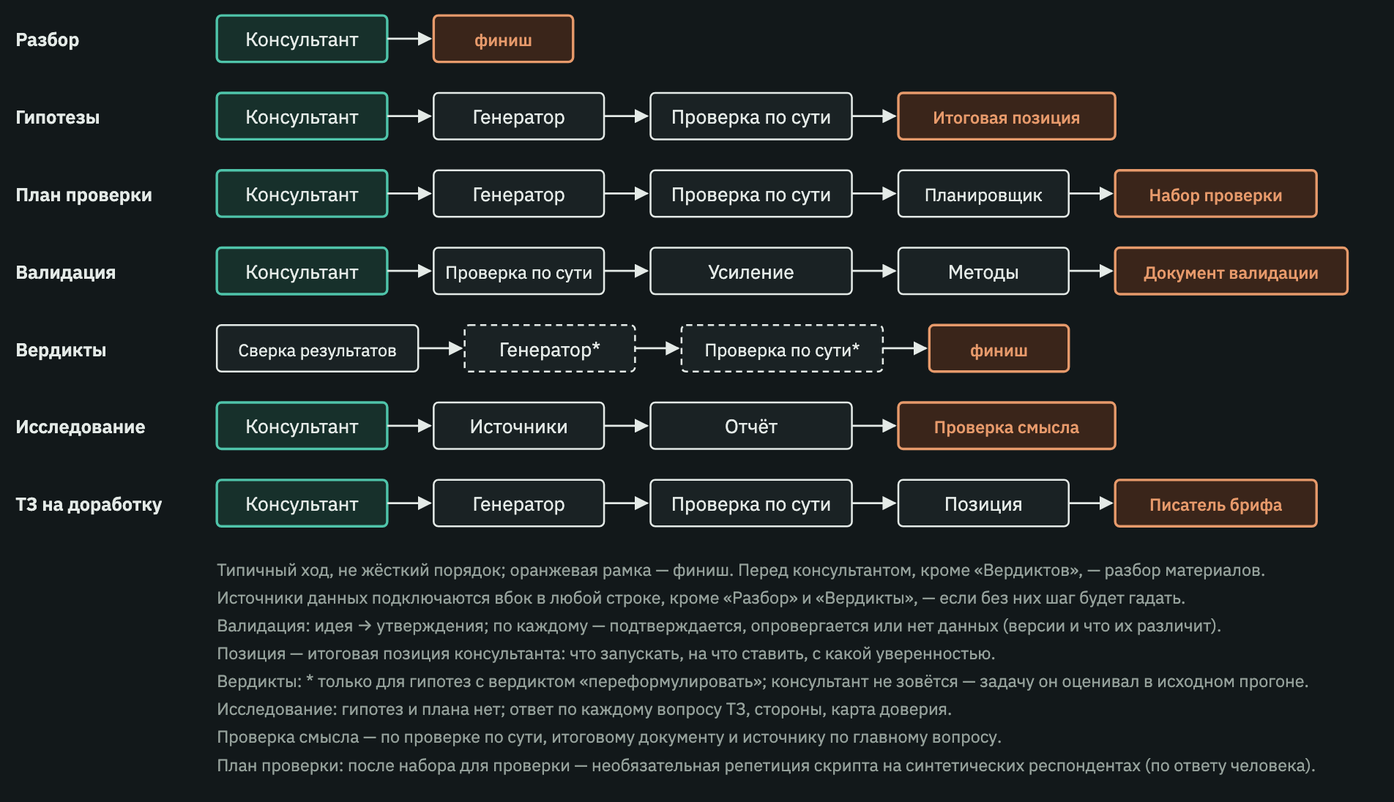
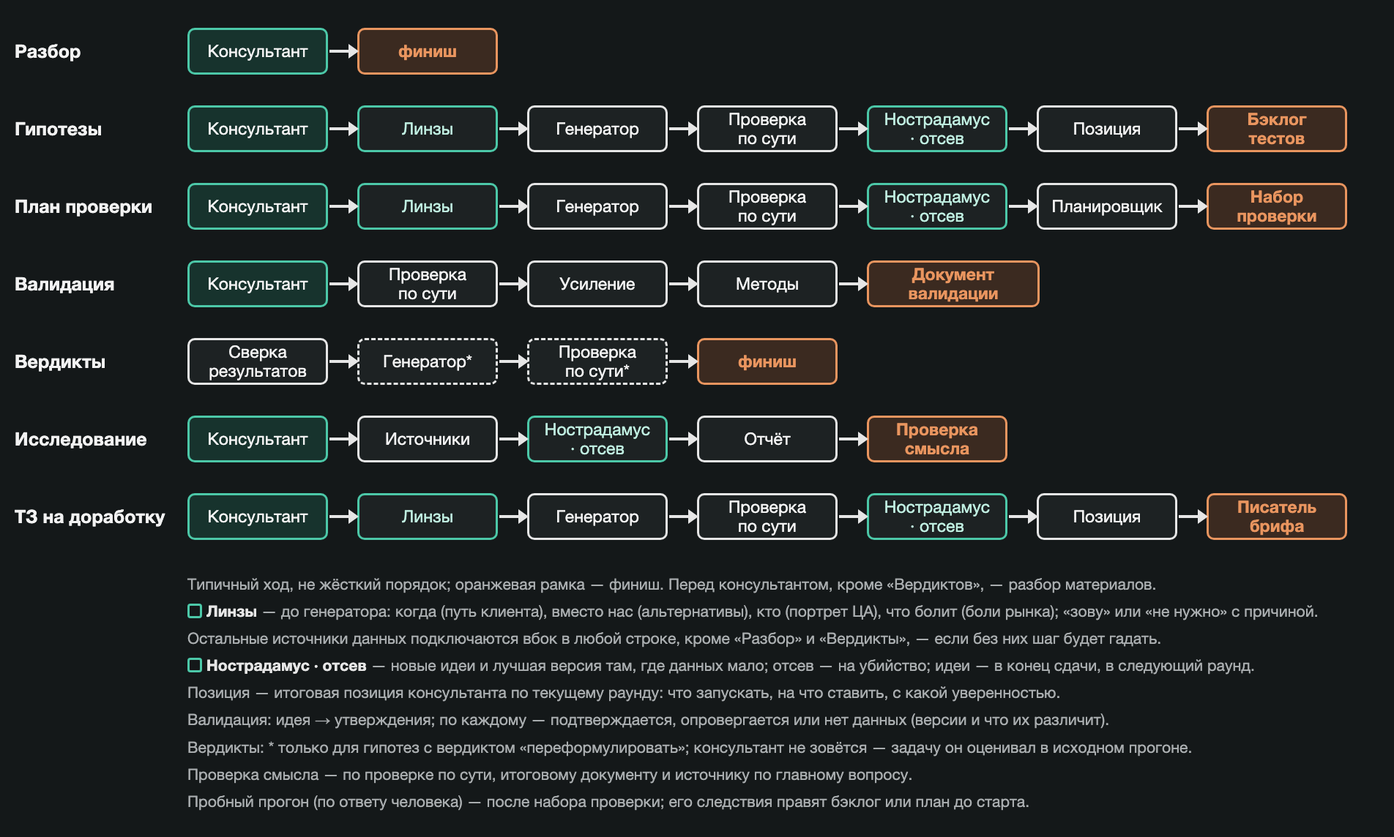
README и схемы под линзы, Нострадамуса и отсев идей
- README: оркестратор проходит линзы до генератора и зовёт
  Нострадамуса с отсевом; источники — исключение для линз; в
  «Гипотезах» — бэклог тестов и «а ещё есть идеи»; пробный прогон
  правит план; словарь — линзы, Нострадамус, отсев, следующий раунд;
  двадцать два скилла, третья схема, pdf_to_images.py.
- Схема ролей: линзы в источниках, Нострадамус и отсев в «Решить и
  проверить», возврат пробного прогона в план, сдача с «а ещё есть
  идеи» и петлёй следующего раунда, новые файлы задачи и скрипты.
- Схема маршрутов: линзы, «Нострадамус · отсев», бэклог тестов как
  финиш «Гипотез»; сноски без «репетиции».
- docs/src/: HTML-исходники обеих схем и команда пересъёмки.

diff --git a/docs/src/architecture-1-roles.html b/docs/src/architecture-1-roles.html
@@ -1,0 +1,139 @@
+<!doctype html>
+<html lang="ru"><head><meta charset="utf-8">
+<style>
+:root{--bg:#141819;--box:#1d2223;--line:#e6e6e6;--teal:#4cc8a8;--tealbg:#17332d;--or:#e9955f;--orbg:#3b2a20;--muted:#a9adaf;--grp:#3b4043;--rbox:#1b2021;--rline:#3d4346}
+*{box-sizing:border-box;margin:0;padding:0}
+html,body{background:var(--bg);width:952px;height:996px}
+body{font-family:Inter,"SF Pro Text",-apple-system,"Helvetica Neue",Arial,sans-serif;color:#f2f2f2;position:relative}
+.b{position:absolute;border:1.5px solid var(--line);border-radius:5px;background:var(--box);display:flex;flex-direction:column;align-items:center;justify-content:center;text-align:center;line-height:1.3;padding:2px 6px}
+.b .h{font-size:12.5px;font-weight:700}
+.x .h{font-size:11px}.x .s{font-size:8.8px}
+.b .s{font-size:10px;color:var(--muted);margin-top:2px}
+.b .m{font-family:"JetBrains Mono",Menlo,monospace;font-size:8.5px;color:var(--muted);margin-top:2px}
+.b .tag{font-size:8.5px;color:var(--teal);margin-top:2px}
+.b.plain .h{font-weight:500}
+.t{border-color:var(--teal);background:var(--tealbg)}
+.t .s{color:#b9ddd3}
+.o{border-color:var(--or);background:var(--orbg)}
+.o .h{color:var(--or)}
+.o .s{color:#e7b48f}
+.n{border-color:var(--teal)}
+.d{border-style:dashed}
+.r{border:1.5px solid var(--rline);background:var(--rbox)}
+.r .h{font-size:12.5px}
+.r .s{font-size:10px;line-height:1.45}
+.g{position:absolute;border:1.5px dashed var(--grp);border-radius:8px}
+.g .gt{position:absolute;left:10px;top:7px;font-size:10.5px;color:#d8d8d8}
+.g .gf{position:absolute;left:10px;bottom:6px;font-size:10px;color:var(--muted)}
+.lab{position:absolute;font-size:10.5px;color:var(--muted)}
+.olab{position:absolute;font-size:10.5px;color:var(--or);font-weight:600}
+.exp{position:absolute;border:1.5px dashed var(--or);border-radius:8px}
+.exp .gt{position:absolute;left:12px;top:8px;font-size:10.5px;color:var(--or);font-weight:600}
+.exp .gf{position:absolute;left:12px;font-size:10px;color:var(--muted);line-height:1.6}
+svg{position:absolute;left:0;top:0}
+</style></head><body>
+
+<!-- top -->
+<div class="b" style="left:20px;top:26px;width:128px;height:58px"><div class="h">Человек</div><div class="s">заказчик</div></div>
+<div class="lab" style="left:154px;top:36px">запрос</div>
+<div class="b t" style="left:200px;top:14px;width:350px;height:96px"><div class="h">Диспетчер</div><div class="s">ТЗ: GAP · РЕШЕНИЕ · ЭКСПЕРИМЕНТ · ЧТО ПОЛУЧИШЬ</div><div class="s">3 вопроса + 4-й по желанию (пробный прогон)</div><div class="s">следующий раунд: идеи, прошедшие отсев, + нужные данные</div></div>
+<div class="b o" style="left:200px;top:128px;width:350px;height:42px"><div class="h" style="font-size:11.5px">Единственная пауза</div><div class="s">ответы и «да» одним сообщением</div></div>
+<div class="olab" style="left:22px;top:160px">ответы / правки / «да»</div>
+<div class="lab" style="left:384px;top:174px">СОГЛАСОВАНО</div>
+<div class="b t" style="left:200px;top:192px;width:350px;height:80px"><div class="h">Оркестратор</div><div class="s">исполнитель — по реестру, инструмент — по указателю</div><div class="s">линзы до генератора · журнал · проверки скриптами после шага</div></div>
+<div class="lab" style="left:384px;top:278px">зовёт по одному</div>
+
+<!-- right column -->
+<div class="lab" style="left:553px;top:44px">читает</div>
+<div class="b r" style="left:592px;top:14px;width:340px;height:108px"><div class="h">methodology/</div><div class="s">tools-index — инструмент под пункт пути<br>модули: M0–M8, M11–M13 и Э Д К О П Ж С<br>эксперименты · данные · источники · оценки<br>оффер · жизненный цикл · сегменты<br>web-protocol — как ходить в веб</div></div>
+<div class="b r" style="left:592px;top:130px;width:340px;height:58px"><div class="h">context/</div><div class="s">кладёт человек до запуска<br>from-tasks/ — src-* и результаты живой проверки</div></div>
+<div class="lab" style="left:555px;top:212px">пишет</div>
+<div class="b r" style="left:592px;top:196px;width:340px;height:88px"><div class="h">tasks/‹задача›/</div><div class="s">00-tz · log · 00k · 01-review · src-*<br>02-hypotheses · 02c · 02f-forecast · 02g-ideas<br>02e-position · 03-backlog / 03-plan · 03b · 03c<br>06-* · 07a–07d · 08-handoff · checks/ · results/</div></div>
+
+<div class="b r" style="left:592px;top:304px;width:340px;height:176px"><div class="h">scripts/ и хуки</div><div class="s">реестры чисел и источников · sensitivity<br>сверка цитат и чисел — скрипт<br>check_step после каждого шага<br>check_log_sources — линзы и шаги-источники<br>check_forecast · check_ideas — идеи и отсев<br>check_rehearsal — следствия пробного прогона<br>Stop-хук не даёт сдать с ошибками<br>check_publish — перед отправкой</div></div>
+<div class="b r" style="left:592px;top:490px;width:340px;height:80px"><div class="h">Полигон · scripts/polygon.py</div><div class="s">выдуманные отчёты об экспериментах с ключом ответов<br>проверка навыка разбора экспериментов<br>без нейросети, ничего не хранит</div></div>
+<div class="b r" style="left:592px;top:580px;width:340px;height:52px"><div class="h">system-notes.md</div><div class="s">замечания к системе из сдач</div></div>
+<div class="b r" style="left:592px;top:642px;width:340px;height:66px"><div class="h">Веб</div><div class="s">за и против, запрос на опровержение, метки уверенности<br>линзы — внешнее сырьё для гипотез и идей</div></div>
+<div class="b r" style="left:592px;top:718px;width:340px;height:122px"><div class="h">Мало данных — не ответ</div><div class="s">по каждому ключевому вопросу — лучшая версия «оценка»,<br>альтернативы, что их различит, следующий шаг<br>идеи Нострадамуса — не опора: отсев на убийство,<br>в конец сдачи, вход следующего раунда</div></div>
+
+<!-- group 1 -->
+<div class="g" style="left:20px;top:304px;width:552px;height:66px"><div class="gt">1. Понять задачу</div></div>
+<div class="b plain" style="left:30px;top:326px;width:150px;height:34px"><div class="h">Разбор материалов</div></div>
+<div class="b t plain" style="left:200px;top:326px;width:160px;height:34px"><div class="h">Консультант · путь</div></div>
+<div class="b plain" style="left:380px;top:326px;width:182px;height:34px"><div class="h">Итоговая позиция</div></div>
+
+<!-- group 2 -->
+<div class="g" style="left:20px;top:380px;width:552px;height:128px"><div class="gt">2. Источники данных · линзы до генератора; остальное — вбок, если без ответа гадать</div></div>
+<div class="b plain" style="left:30px;top:402px;width:124px;height:46px"><div class="h">Интервью</div><div class="m">src-interview</div></div>
+<div class="b n plain" style="left:162px;top:402px;width:124px;height:46px"><div class="h">Боли рынка</div><div class="tag">линза «что болит»</div></div>
+<div class="b n plain" style="left:294px;top:402px;width:124px;height:46px"><div class="h">Портрет ЦА</div><div class="tag">линза «кто»</div></div>
+<div class="b n plain" style="left:426px;top:402px;width:136px;height:46px"><div class="h">Альтернативы</div><div class="tag">линза «вместо нас»</div></div>
+<div class="b plain" style="left:30px;top:454px;width:124px;height:46px"><div class="h">Оценка рынка</div><div class="m">src-market-size</div></div>
+<div class="b n plain" style="left:162px;top:454px;width:124px;height:46px"><div class="h">Путь клиента</div><div class="tag">линза «когда»</div></div>
+<div class="b plain" style="left:294px;top:454px;width:124px;height:46px"><div class="h" style="font-size:11.5px">Разбор экспериментов</div><div class="m">src-experiments</div></div>
+<div class="b o plain" style="left:426px;top:454px;width:136px;height:46px"><div class="h" style="font-size:11.5px">Запрос данных<br>аналитику</div></div>
+
+<!-- group 3 -->
+<div class="g" style="left:20px;top:518px;width:552px;height:184px"><div class="gt">3. Решить и проверить</div><div class="gf">пробный прогон — только если человек согласился на 4-й вопрос</div></div>
+<div class="b plain" style="left:30px;top:540px;width:112px;height:44px"><div class="h">Генератор</div><div class="m">02-hypotheses</div></div>
+<div class="b plain" style="left:164px;top:540px;width:112px;height:44px"><div class="h" style="font-size:11px">Проверка по сути</div><div class="m">02c-validation</div></div>
+<div class="b n plain" style="left:298px;top:540px;width:126px;height:44px"><div class="h">Нострадамус</div><div class="tag">02f · новые идеи, версии</div></div>
+<div class="b n plain" style="left:446px;top:540px;width:116px;height:44px"><div class="h">Отсев идей</div><div class="tag">02g · на убийство</div></div>
+<div class="b plain" style="left:30px;top:608px;width:150px;height:44px"><div class="h">Планировщик</div><div class="m">03-plan · 03-backlog</div></div>
+<div class="b plain" style="left:212px;top:608px;width:150px;height:44px"><div class="h" style="font-size:11.5px">Набор для проверки</div><div class="m">03b-test-kit</div></div>
+<div class="b d plain" style="left:394px;top:608px;width:168px;height:44px"><div class="h">Пробный прогон</div><div class="m">03c · синтетика · СЛЕДСТВИЯ</div></div>
+<div class="olab" style="left:118px;top:656px;font-weight:500;font-size:9.5px">следствия → правка бэклога или плана до старта</div>
+
+<!-- group 4 -->
+<div class="g" style="left:20px;top:712px;width:552px;height:128px"><div class="gt">4. Собрать, проверить смысл, сдать</div></div>
+<div class="b o plain" style="left:30px;top:734px;width:166px;height:36px"><div class="h">Сборщик документа</div></div>
+<div class="b o plain" style="left:206px;top:734px;width:166px;height:36px"><div class="h">Писатель брифа</div></div>
+<div class="b plain" style="left:382px;top:734px;width:180px;height:36px"><div class="h">Проверка смысла</div><div class="s" style="margin-top:0">отдельный контекст</div></div>
+<div class="b plain" style="left:30px;top:780px;width:532px;height:50px"><div class="h">Сдача · 08-handoff</div><div class="s">позиция → версия и шаг → бэклог → вердикты → «А ещё есть идеи» + данные</div></div>
+
+<!-- experiment -->
+<div class="exp" style="left:20px;top:856px;width:912px;height:128px"><div class="gt">Эксперимент в системе · живой запуск делает человек, система готовит его и разбирает итог</div>
+<div class="gf" style="top:84px">Разбор экспериментов — для уже случившихся (src-experiments). Полигон проверяет саму систему, а не задачи.<br>Правило: синтетика не свидетельство о клиентах, но её находки правят инструмент; результат живой проверки попадает в context/, выводы системы — нет.</div></div>
+<div class="b x plain" style="left:32px;top:884px;width:114px;height:44px"><div class="h">ЭКСПЕРИМЕНТ</div><div class="s" style="margin-top:0">поле ТЗ</div></div>
+<div class="b x plain" style="left:160px;top:884px;width:114px;height:44px"><div class="h">План и набор</div><div class="s" style="margin-top:0">03-plan · 03b</div></div>
+<div class="b x plain" style="left:288px;top:884px;width:114px;height:44px"><div class="h">Пробный прогон</div><div class="s" style="margin-top:0">правит план</div></div>
+<div class="b x o plain" style="left:416px;top:884px;width:114px;height:44px"><div class="h">Живой запуск</div><div class="s" style="margin-top:0">человек</div></div>
+<div class="b x plain" style="left:544px;top:884px;width:114px;height:44px"><div class="h">results/</div><div class="s" style="margin-top:0">заготовки</div></div>
+<div class="b x plain" style="left:672px;top:884px;width:114px;height:44px"><div class="h">Сверка</div><div class="s" style="margin-top:0">результатов · 04</div></div>
+<div class="b x plain" style="left:800px;top:884px;width:120px;height:44px"><div class="h">context/</div><div class="s" style="margin-top:0">для следующих задач</div></div>
+
+<svg width="952" height="996" viewBox="0 0 952 996">
+<defs>
+<marker id="w" markerWidth="8" markerHeight="8" refX="7" refY="4" orient="auto"><path d="M0,0 L8,4 L0,8 z" fill="#e6e6e6"/></marker>
+<marker id="or" markerWidth="8" markerHeight="8" refX="7" refY="4" orient="auto"><path d="M0,0 L8,4 L0,8 z" fill="#e9955f"/></marker>
+</defs>
+<g stroke="#e6e6e6" stroke-width="1.5" fill="none" marker-end="url(#w)">
+<line x1="148" y1="55" x2="198" y2="55"/>
+<line x1="375" y1="110" x2="375" y2="126"/>
+<line x1="375" y1="170" x2="375" y2="190"/>
+<line x1="375" y1="272" x2="375" y2="300"/>
+<line x1="180" y1="343" x2="198" y2="343"/>
+<line x1="142" y1="562" x2="162" y2="562"/>
+<line x1="276" y1="562" x2="296" y2="562"/>
+<line x1="424" y1="562" x2="444" y2="562"/>
+<line x1="180" y1="630" x2="210" y2="630"/>
+<line x1="362" y1="630" x2="392" y2="630"/>
+<line x1="146" y1="906" x2="158" y2="906"/>
+<line x1="274" y1="906" x2="286" y2="906"/>
+<line x1="402" y1="906" x2="414" y2="906"/>
+<line x1="530" y1="906" x2="542" y2="906"/>
+<line x1="658" y1="906" x2="670" y2="906"/>
+<line x1="786" y1="906" x2="798" y2="906"/>
+<path d="M504,584 L504,596 L105,596 L105,606"/>
+</g>
+<path d="M200,150 L84,150 L84,88" stroke="#e9955f" stroke-width="1.5" fill="none" marker-end="url(#or)"/>
+<path d="M478,652 L478,674 L105,674 L105,654" stroke="#e9955f" stroke-width="1.5" fill="none" stroke-dasharray="4 3" marker-end="url(#or)"/>
+<g stroke="#e6e6e6" stroke-width="1.3" fill="none" stroke-dasharray="4 3" marker-end="url(#w)">
+<line x1="550" y1="62" x2="590" y2="62"/>
+<path d="M550,140 L566,140 L566,160 L590,160"/>
+<line x1="550" y1="232" x2="590" y2="232"/>
+<path d="M30,805 L12,805 L12,64 L18,64" stroke="#e9955f" marker-end="url(#or)"/>
+</g>
+<text x="16" y="440" fill="#e9955f" font-size="9.5" font-family="Inter,-apple-system,Helvetica Neue,Arial" transform="rotate(-90 9 440)">следующий раунд</text>
+</svg>
+</body></html>

diff --git a/docs/src/architecture-2-routes.html b/docs/src/architecture-2-routes.html
@@ -1,0 +1,56 @@
+<!doctype html>
+<html lang="ru"><head><meta charset="utf-8">
+<style>
+:root{--bg:#141819;--box:#1d2223;--line:#e6e6e6;--teal:#4cc8a8;--tealbg:#17332d;--or:#e9955f;--orbg:#3b2a20;--muted:#a9adaf;}
+*{box-sizing:border-box;margin:0;padding:0}
+html,body{background:var(--bg);width:952px}
+body{font-family:Inter,"SF Pro Text",-apple-system,"Helvetica Neue",Arial,sans-serif;color:#f2f2f2;padding:10px 10px 16px 10px}
+.row{display:flex;align-items:center;height:50px;margin-bottom:3px}
+.lbl{width:118px;font-weight:700;font-size:12.5px;flex:none}
+.flow{display:flex;align-items:center}
+.b{height:32px;border:1.5px solid var(--line);border-radius:5px;background:var(--box);display:flex;align-items:center;justify-content:center;text-align:center;font-size:11.5px;line-height:1.15;padding:0 6px;width:96px;flex:none}
+.b.w{width:118px}
+.t{border-color:var(--teal);background:var(--tealbg)}
+.o{border-color:var(--or);background:var(--orbg);color:var(--or);font-weight:600}
+.n{border-color:var(--teal);color:#bfeee0}
+.d{border-style:dashed}
+.a{width:18px;height:2px;background:var(--line);position:relative;flex:none;margin:0 1px}
+.a:after{content:"";position:absolute;right:-2px;top:-4px;border-left:7px solid var(--line);border-top:5px solid transparent;border-bottom:5px solid transparent}
+.notes{margin:12px 0 0 118px;color:var(--muted);font-size:10.6px;line-height:1.75}
+.notes b{color:#e6e6e6;font-weight:600}
+.leg{display:inline-block;width:10px;height:10px;border:1.5px solid var(--teal);border-radius:2px;vertical-align:-1px;margin-right:3px}
+</style></head><body>
+
+<div class="row"><div class="lbl">Разбор</div><div class="flow">
+<div class="b t">Консультант</div><div class="a"></div><div class="b o">финиш</div></div></div>
+
+<div class="row"><div class="lbl">Гипотезы</div><div class="flow">
+<div class="b t">Консультант</div><div class="a"></div><div class="b n">Линзы</div><div class="a"></div><div class="b">Генератор</div><div class="a"></div><div class="b">Проверка<br>по сути</div><div class="a"></div><div class="b n">Нострадамус<br>· отсев</div><div class="a"></div><div class="b">Позиция</div><div class="a"></div><div class="b o">Бэклог тестов</div></div></div>
+
+<div class="row"><div class="lbl">План проверки</div><div class="flow">
+<div class="b t">Консультант</div><div class="a"></div><div class="b n">Линзы</div><div class="a"></div><div class="b">Генератор</div><div class="a"></div><div class="b">Проверка<br>по сути</div><div class="a"></div><div class="b n">Нострадамус<br>· отсев</div><div class="a"></div><div class="b">Планировщик</div><div class="a"></div><div class="b o">Набор проверки</div></div></div>
+
+<div class="row"><div class="lbl">Валидация</div><div class="flow">
+<div class="b t">Консультант</div><div class="a"></div><div class="b">Проверка<br>по сути</div><div class="a"></div><div class="b">Усиление</div><div class="a"></div><div class="b">Методы</div><div class="a"></div><div class="b o w">Документ валидации</div></div></div>
+
+<div class="row"><div class="lbl">Вердикты</div><div class="flow">
+<div class="b">Сверка результатов</div><div class="a"></div><div class="b d">Генератор*</div><div class="a"></div><div class="b d">Проверка<br>по сути*</div><div class="a"></div><div class="b o">финиш</div></div></div>
+
+<div class="row"><div class="lbl">Исследование</div><div class="flow">
+<div class="b t">Консультант</div><div class="a"></div><div class="b">Источники</div><div class="a"></div><div class="b n">Нострадамус<br>· отсев</div><div class="a"></div><div class="b">Отчёт</div><div class="a"></div><div class="b o">Проверка смысла</div></div></div>
+
+<div class="row"><div class="lbl">ТЗ на доработку</div><div class="flow">
+<div class="b t">Консультант</div><div class="a"></div><div class="b n">Линзы</div><div class="a"></div><div class="b">Генератор</div><div class="a"></div><div class="b">Проверка<br>по сути</div><div class="a"></div><div class="b n">Нострадамус<br>· отсев</div><div class="a"></div><div class="b">Позиция</div><div class="a"></div><div class="b o">Писатель брифа</div></div></div>
+
+<div class="notes">
+Типичный ход, не жёсткий порядок; оранжевая рамка — финиш. Перед консультантом, кроме «Вердиктов», — разбор материалов.<br>
+<span class="leg"></span><b>Линзы</b> — до генератора: когда (путь клиента), вместо нас (альтернативы), кто (портрет ЦА), что болит (боли рынка); «зову» или «не нужно» с причиной.<br>
+Остальные источники данных подключаются вбок в любой строке, кроме «Разбор» и «Вердикты», — если без них шаг будет гадать.<br>
+<span class="leg"></span><b>Нострадамус · отсев</b> — новые идеи и лучшая версия там, где данных мало; отсев — на убийство; идеи — в конец сдачи, в следующий раунд.<br>
+Позиция — итоговая позиция консультанта по текущему раунду: что запускать, на что ставить, с какой уверенностью.<br>
+Валидация: идея → утверждения; по каждому — подтверждается, опровергается или нет данных (версии и что их различит).<br>
+Вердикты: * только для гипотез с вердиктом «переформулировать»; консультант не зовётся — задачу он оценивал в исходном прогоне.<br>
+Проверка смысла — по проверке по сути, итоговому документу и источнику по главному вопросу.<br>
+Пробный прогон (по ответу человека) — после набора проверки; его следствия правят бэклог или план до старта.
+</div>
+</body></html>

diff --git a/README.md b/README.md
@@ -11,8 +11,9 @@
 3. **Ищет за и против.** Сначала твои материалы, потом сеть — отзывы, форумы, страницы конкурентов, отчёты. Под каждое утверждение есть запрос, который мог бы его опровергнуть. Три пересказа одной статьи считаются одним источником.
 4. **Оставляет след.** Фрагмент, на котором стоит вывод, приводится дословно со ссылкой, и скрипт сверяет его с текстом источника. Число — с источником, периодом и формулой, если оно посчитано.
 5. **Разводит роли.** Утверждения проверяет не тот агент, который их сформулировал. Ещё один агент смотрит отдельно, не зная рассуждений автора, держит ли найденный фрагмент тот вывод, который из него сделали.
-6. **Называет неизвестное.** Исход по утверждению — подтверждается, опровергается или нет данных. Для «нет данных» — возможные объяснения, что косвенно говорит за каждое и какие данные покажут, какое верно.
-7. **Копит знание.** Материалы источников и результаты живых проверок возвращаются в `context/` для следующих задач. Выводы самой системы туда не попадают, чтобы в следующий раз она не приняла их за доказательство.
+6. **Называет неизвестное.** Исход по утверждению — подтверждается, опровергается или нет данных. Для «нет данных» — возможные объяснения, что косвенно говорит за каждое и какие данные покажут, какое верно. Мало данных — не ответ: по каждому ключевому вопросу система даёт лучшую версию с пометкой «оценка» и следующий шаг, который можно сделать самому.
+7. **Предлагает новое.** В задачах на гипотезы, план и ТЗ на доработку отдельная роль — Нострадамус — придумывает идеи, которых не было среди проверенных, а проверка отсеивает те, что материал опровергает. Оставшиеся идут в конец сдачи: «а ещё есть идеи; для следующего раунда понадобятся такие-то данные».
+8. **Копит знание.** Материалы источников и результаты живых проверок возвращаются в `context/` для следующих задач. Выводы самой системы туда не попадают, чтобы в следующий раз она не приняла их за доказательство.
 
 ## Архитектура
 
@@ -20,17 +21,19 @@
 
 ![Маршруты по типам выхода](docs/architecture-2-routes.png)
 
+![Пример прогона: валидация идеи](docs/architecture-3-example.png)
+
 
 ## Что внутри
 
 - `AGENTS.md` — инструкции для агентов: роли, принципы, правила. Главный документ: если что-то расходится, прав он.
 - `CLAUDE.md` — одна строка `@AGENTS.md`: Claude Code читает только свой файл.
-- `.claude/skills/` — двадцать один скилл, по одному на роль. Что каждый умеет и когда его звать — `.claude/skills/orchestrator/registry.md`.
+- `.claude/skills/` — двадцать два скилла, по одному на роль. Что каждый умеет и когда его звать — `.claude/skills/orchestrator/registry.md`.
 - `methodology/` — методология: указатель `tools-index.md` (какой инструмент под какую задачу), модули в `modules/` (список ниже) и `web-protocol.md` (как искать в сети и что считать надёжным источником).
 - `context/` — материалы о продукте и клиентах, которые кладёшь ты.
-- `tasks/` — задачи; папки создаёт система. Ни `context/`, ни `tasks/` в git не попадают.
+- `tasks/` — задачи; папки создаёт система. В git из `context/` и `tasks/` попадают только `README.md`: сами материалы и задачи остаются локально.
 - `scripts/` — проверки, которые не зависят от честности агента, и хуки Claude Code (`scripts/hooks/`, `.claude/settings.json`).
-- `docs/` — схемы системы (три PNG).
+- `docs/` — схемы системы (три PNG) и HTML-исходники первых двух в `docs/src/`.
 - `system-notes.md` — журнал замечаний к системе.
 
 ## Методология
@@ -57,10 +60,10 @@
 | --- | --- |
 | Диспетчер | Превращает запрос в ТЗ: что ты хочешь получить, чего не хватает, какой результат будет. Задаёт три вопроса о том, что важнее всего уточнить. Если дело идёт к живой проверке, добавляет четвёртый, необязательный: сделать ли пробный прогон — задать будущие вопросы выдуманным респондентам и посмотреть, какие из них наводящие или непонятные (дольше и дороже, ничего не доказывает про реальных клиентов). Исполнителей диспетчер не выбирает |
 | Человек | Отвечает на вопросы диспетчера (три, иногда четыре) и согласует ТЗ одним сообщением. Это единственная пауза во всей системе |
-| Оркестратор | Ведёт задачу по шагам: решает, какого исполнителя позвать на каждый пункт пути, в каком порядке и когда остановиться. Для каждого шага записывает, какой инструмент методологии взять из указателя. После шага запускает проверки и пишет журнал (лог) |
-| Исполнители | Агенты с узкой работой: разбор материалов (что уже известно по каждому вопросу ТЗ); консультант (оценивает постановку и строит путь от «как сейчас» к «как нужно»: что должно стать известно); генератор гипотез; проверка по сути; планировщик; набор для проверки (скрипты и тексты для живой проверки); восемь источников данных (интервью, боли рынка, портрет аудитории, альтернативы, оценка рынка, путь клиента, разбор экспериментов и другие); проверка смысла; Нострадамус (новые идеи вне колеи маршрута, лучшая версия там, где данных не хватило, и следующий шаг); сборщик итогового документа; писатель брифа; выдуманные респонденты (синтетика); сверка результатов |
+| Оркестратор | Ведёт задачу по шагам: решает, какого исполнителя позвать на каждый пункт пути, в каком порядке и когда остановиться. В задачах на гипотезы до генератора проходит вопрос через четыре линзы — когда, вместо нас, кто, что болит — и зовёт источники за внешним сырьём. После проверки по сути зовёт Нострадамуса и отсев его идей. Для каждого шага записывает, какой инструмент методологии взять из указателя. После шага запускает проверки и пишет журнал (лог) |
+| Исполнители | Агенты с узкой работой: разбор материалов (что уже известно по каждому вопросу ТЗ); консультант (оценивает постановку и строит путь от «как сейчас» к «как нужно»: что должно стать известно); генератор гипотез; проверка по сути; планировщик; набор для проверки (скрипты и тексты для живой проверки); восемь источников данных (разбор интервью, сводка интервью, боли рынка, портрет аудитории, альтернативы, оценка рынка, путь клиента, разбор экспериментов); проверка смысла; Нострадамус (новые идеи вне колеи маршрута, лучшая версия там, где данных не хватило, и следующий шаг); сборщик итогового документа; писатель брифа; выдуманные респонденты (синтетика); сверка результатов |
 
-К источникам данных оркестратор обращается по выбору, только когда без ответа гипотезы или вердикт будут догадкой. Если ответ лежит внутри компании (воронка, выгрузка, итоги прошлой кампании), система не ищет его в сети: оркестратор пишет запрос аналитику и кладёт его в итоговую сводку отдельным блоком.
+К источникам данных оркестратор обращается по выбору, когда без ответа гипотезы или вердикт будут догадкой. Исключение — линзы: в задачах на гипотезы, план и ТЗ на доработку он до генератора решает по каждой из четырёх, звать ли источник за сырьём (путь клиента, альтернативы, портрет аудитории, боли рынка), и при открытой сети хотя бы один зовёт обязательно — иначе гипотезы вырастают из одного корня. Если ответ лежит внутри компании (воронка, выгрузка, итоги прошлой кампании), система не ищет его в сети: оркестратор пишет запрос аналитику и кладёт его в итоговую сводку отдельным блоком.
 
 ## Что можно получить
 
@@ -69,8 +72,8 @@
 | Результат | Когда | Что на выходе |
 | --- | --- | --- |
 | Разбор | нужна оценка идеи или постановки | разбор консультанта |
-| Гипотезы | нужно понять, что делать | гипотезы с вердиктами проверки, лучшая версия и следующий шаг по каждому ключевому вопросу и итоговая позиция: на что ставить и с чего начать |
-| План проверки | нужно довести до действий | план и готовые материалы для живой проверки |
+| Гипотезы | нужно понять, что делать | гипотезы с вердиктами проверки, итоговая позиция (на что ставить и с чего начать), лучшая версия и следующий шаг по каждому ключевому вопросу, бэклог тестов и в конце — «а ещё есть идеи» для следующего раунда с данными, которые для них нужны |
+| План проверки | нужно довести до действий | план и готовые материалы для живой проверки; если был пробный прогон — план уже поправлен по его находкам |
 | Вердикты по проверке | принёс результаты живой проверки | вердикты по плану прошлой задачи |
 | Валидация | принёс свою идею или гипотезы: «провалидируй» | документ `06-validation.md`: вердикт по идее, утверждения с «за» и «против» из твоих материалов и сети, что не так, где слабо и как усилить, как проверить, карта доверия |
 | Исследование | нужно понять, что известно, без выбора решения: «собери исследование» | отчёт `06-research.md`: ответ по каждому вопросу, основания, стороны, карта доверия |
@@ -87,7 +90,11 @@
 - **Опора** — то, на чём стоит вывод: дословный фрагмент интервью, данные, случившееся. Утверждение команды опорой не считается.
 - **Карта доверия** — раздел итогового документа: что держится на нескольких независимых источниках, что на одном, что стоит проверить руками.
 - **Сдача** — итоговая сводка после работы: результат, что осталось неизвестным, запросы данных аналитику.
-- **Пробный прогон** — проверка скрипта живой проверки на выдуманных респондентах до реальных звонков. Находит наводящие и непонятные вопросы. О реальных клиентах ничего не доказывает.
+- **Пробный прогон** — проверка скрипта живой проверки на выдуманных респондентах до реальных звонков. Находит наводящие и непонятные вопросы и ветки теста, которые ничего не различат. О реальных клиентах ничего не доказывает, но его находки правят бэклог или план до старта.
+- **Линзы** — четыре вопроса, через которые оркестратор пропускает задачу до генератора: когда (путь клиента), вместо нас (альтернативы), кто (портрет аудитории), что болит (боли рынка). Нужны, чтобы гипотезы строились не только из своих материалов, но и из внешнего сырья.
+- **Нострадамус** — роль в конце маршрута: придумывает новые идеи вне проверенного набора и даёт лучшую версию ответа там, где данных не хватило. Его идеи — оценка, а не опора.
+- **Отсев идей** — проверка идей Нострадамуса на то, не убивает ли их материал. Двух опор не требует: новые идеи по определению держатся на малом.
+- **Следующий раунд** — новое ТЗ по той же теме: диспетчер берёт в него идеи, прошедшие отсев, и данные, которые для них нужны.
 - **Синтетика** — всё, что придумано моделью: выдуманные респонденты, выдуманные отчёты. Свидетельством не считается никогда.
 - **Полигон** — набор выдуманных отчётов об экспериментах, где правильные ответы известны заранее. Проверяет, не ошибается ли сам навык разбора.
 - **Тир** — масштаб задачи по тому, насколько ответ изменит разговор с клиентом; от него зависит, сколько шагов система может потратить.
@@ -117,6 +124,7 @@
 | `check_log_sources.py` | в задачах на гипотезы перед генератором — блок ЛИНЗЫ (когда, вместо нас, кто, что болит: зову или не нужно с причиной); у каждого шага-источника в логе записаны вопрос, зачем он нужен и что по нему уже известно; указан инструмент методологии из указателя (или «—») |
 | `check_fresh.py` | старый веб-источник процитирован с годом |
 | `check_long_list.py` | отсев длинного списка гипотез по правилам, записанным заранее |
+| `pdf_to_images.py` | сохраняет страницы PDF картинками, когда у файла нет текстового слоя: агент читает их и передаёт расшифровку в `add_source.py` с `--read partial` |
 | `check_env.py` | что установлено для чтения файлов и доступна ли сеть |
 | `trust_block.py` | вспомогательный модуль: блок «СЧЁТ ОПОР», который переносится в отчёт дословно, не разбирается проверками чисел и свежести |
 | `polygon.py` | полигон: выдуманные отчёты об экспериментах с ключом ответов и сверка навыка разбора экспериментов (без нейросети) |
@@ -157,4 +165,4 @@
 - Один раз в своей копии включи проверку перед отправкой: `git config core.hooksPath scripts/git-hooks`. Свои закрытые слова — названия продуктов, компаний, партнёров — впиши в `.publish-stopwords` по одному в строке; файл в репозиторий не попадает.
 - В репозиторий — только система. Примеры в инструкциях и тестах только выдуманные.
 - Тесты по цене: сначала `python3 scripts/selftest.py` (бесплатно), потом полигон (`scripts/polygon.py`: выдуманные отчёты об экспериментах с известными ответами, для одного вызова навыка), всю цепочку — перед слиянием крупных правок.
-- Схемы — три PNG в `docs/`; исходника в репозитории нет, после изменений в системе их перерисовывают и заменяют (`docs/README.md`).
+- Схемы — три PNG в `docs/`; у первых двух исходники — HTML в `docs/src/`: после изменений в системе правь HTML и пересними PNG (команда в `docs/README.md`).

diff --git a/docs/README.md b/docs/README.md
@@ -1,5 +1,15 @@
 # Схемы
 
-Три PNG в этой папке — схемы системы: роли, хранилища, маршрут и контур эксперимента; маршруты по семи типам выхода; пример прогона (валидация идеи). Тёмная тема, двойной масштаб, 1904 px в ширину. Исходника в репозитории нет: после изменений в системе схемы перерисовываются заново, а старые файлы заменяются.
+Три PNG в этой папке — схемы системы: роли, хранилища, маршрут и контур эксперимента; маршруты по семи типам выхода; пример прогона (валидация идеи). Тёмная тема, двойной масштаб, 1904 px в ширину.
+
+Исходники первых двух схем — HTML в `src/`. После изменений в системе правь HTML и пересними PNG в Chrome без окна (ширина 952 px, масштаб 2; высоту подбери под схему):
+
+```
+"/Applications/Google Chrome.app/Contents/MacOS/Google Chrome" --headless=new --hide-scrollbars \
+  --force-device-scale-factor=2 --window-size=952,996 \
+  --screenshot=docs/architecture-1-roles.png "file://$PWD/docs/src/architecture-1-roles.html"
+```
+
+Для схемы маршрутов — `--window-size=952,572` и `architecture-2-routes`. У третьей схемы (пример валидации) исходника нет: маршрут валидации не менялся.
 
 Актуальное описание системы — `AGENTS.md` в корне; контракты скиллов — `.claude/skills/orchestrator/registry.md`.
